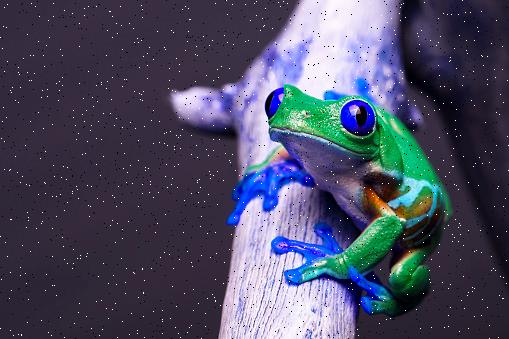
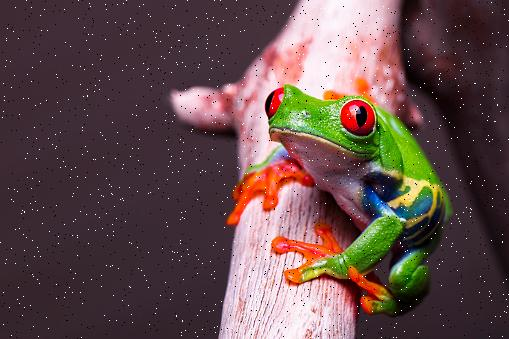
back end change

diff --git a/ImageDenoisingFrontEnd/src/components/my-from.tsx b/ImageDenoisingFrontEnd/src/components/my-from.tsx
@@ -24,6 +24,7 @@ interface FormInput {
 
 const MyForm = () => {
   const { control, handleSubmit } = useForm<FormInput>();
+  const [originalImage, setOriginalImage] = useState<string | null>(null);
   const [noisyImage, setNoisyImage] = useState<string | null>(null);
 
   const onSubmit = async (data: FormInput) => {
@@ -36,6 +37,9 @@ const MyForm = () => {
       const createResponse = await axios.post('http://localhost:8000/api/images/', formData);
       console.log("Create response data:", createResponse.data); // Log create response data for debugging
       const imageId = createResponse.data.id;
+      const originalImageUrl = createResponse.data.original_image; // Get the original image URL from the response
+      console.log("Original Image URL:", originalImageUrl); // Log the original image URL
+      setOriginalImage(originalImageUrl); // Set the original image URL state
 
       const noiseResponse = await axios.post(`http://localhost:8000/api/images/${imageId}/add_noise/`, { selected_noise: data.noise.value });
       console.log("Noise response data:", noiseResponse.data); // Log noise response data for debugging
@@ -99,8 +103,15 @@ const MyForm = () => {
             Add
           </Button>
 
+          {originalImage && (
+            <div className="image-container">
+              <p>Original image:</p>
+              <img src={`http://localhost:8000${originalImage}`} alt="Original" />
+            </div>
+          )}
+
           {noisyImage && (
-            <div className="generated_div">
+            <div className="image-container">
               <p>Noisy image generated:</p>
               <img src={`http://localhost:8000${noisyImage}`} alt="Noisy" />
               <Button type="submit" variant="contained">

diff --git a/ImageDenoisingFrontEnd/src/styles.css b/ImageDenoisingFrontEnd/src/styles.css
@@ -38,14 +38,21 @@ body {
   box-shadow: 0 4px 8px rgba(0, 0, 0, 0.1); /* Box shadow for noise section */
 }
 
-.generated_div{
-  max-width: fit-content;
-}
-
 .denoise-section {
   margin-top: 20px;
   padding: 20px;
   background-color: #f9f9f9; /* Light gray background color for denoise section */
   border-radius: 8px;
   box-shadow: 0 4px 8px rgba(0, 0, 0, 0.1); /* Box shadow for denoise section */
+}
+
+.noisy-image-container img {
+  display: flex;
+  justify-content: center;
+  align-items: center;
+  margin-top: 20px;
+  max-width: 100%;
+  height: auto;
+  border-radius: 5px;
+  box-shadow: 0 4px 8px rgba(0, 0, 0, 0.1);
 }

diff --git a/imageDenoisingBackEnd/image_processing/views.py b/imageDenoisingBackEnd/image_processing/views.py
@@ -22,7 +22,11 @@ class ImageViewSet(viewsets.ModelViewSet):
         serializer = self.get_serializer(data=data)
         serializer.is_valid(raise_exception=True)
         self.perform_create(serializer)
-        return Response(serializer.data)
+        response_data = {
+            **serializer.data,
+            'original_image': serializer.instance.original_image.url  # Include the original image URL in the response
+        }
+        return Response(response_data)
 
     @action(detail=True, methods=['post'])
     def add_noise(self, request, pk=None):
@@ -38,12 +42,15 @@ class ImageViewSet(viewsets.ModelViewSet):
                 logger.error(f"Failed to load image from path: {img_path}")
                 return Response({'status': 'error', 'message': 'Failed to load image.'}, status=400)
 
+            # Convert BGR to RGB
+            original_img = cv2.cvtColor(original_img, cv2.COLOR_BGR2RGB)
+
             # Generate noisy image based on the noise type
-            if noise_type == 'Sel&&poivre':
+            if (noise_type == 'Sel&&poivre'):
                 noisy_img = self.add_salt_and_pepper_noise(original_img)
-            elif noise_type == 'Sel':
+            elif (noise_type == 'Sel'):
                 noisy_img = self.add_salt_noise(original_img)
-            elif noise_type == 'Poivre':
+            elif (noise_type == 'Poivre'):
                 noisy_img = self.add_pepper_noise(original_img)
             else:
                 logger.error(f"Unknown noise type: {noise_type}")

diff --git a/imageDenoisingBackEnd/imageNoiseBackEnd/urls.py b/imageDenoisingBackEnd/imageNoiseBackEnd/urls.py
@@ -6,7 +6,7 @@ from django.conf.urls.static import static
 
 urlpatterns = [
     path('admin/', admin.site.urls),
-    path('api/', include('image_processing.urls')),  # Changed from 'image_processing/' to 'api/'
+    path('api/', include('image_processing.urls')), 
 ]
 
 if settings.DEBUG:
